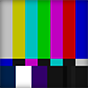
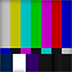
Better loading

diff --git a/iNDS/core/iNDSGame.m b/iNDS/core/iNDSGame.m
@@ -20,6 +20,7 @@ NSString * const iNDSGameSaveStatesChangedNotification = @"iNDSGameSaveStatesCha
     NSString    *title;
     UIImage     *icon;
     NSString    *md5;
+    NSString    *imageURL;
 }
 
 + (NSArray*)gamesAtPath:(NSString*)gamesPath saveStateDirectoryPath:(NSString*)saveStatePath
@@ -160,7 +161,6 @@ NSString * const iNDSGameSaveStatesChangedNotification = @"iNDSGameSaveStatesCha
 {
     if (iconTitleData == nil) return nil;
     if (icon == nil) {
-        NSLog(@"%@", [self imageURL]);
         NSMutableData *bitmapData = [NSMutableData dataWithCapacity:32*32*4];
         
         // Setup the 4-bit CLUT.
@@ -324,35 +324,44 @@ NSString * const iNDSGameSaveStatesChangedNotification = @"iNDSGameSaveStatesCha
 
 - (NSString *) md5 {
     if (md5 == nil) {
-        md5 = [FileHash md5HashOfFileAtPath:self.path];;
+        md5 = [FileHash md5HashOfFileAtPath:self.path];
     }
     return md5;
 }
 
 - (NSString *) imageURL {
-    iNDSDBManager *db = [iNDSDBManager sharedInstance];
-    NSString *boop = [NSString stringWithFormat:@"SELECT romID FROM ROMs WHERE UPPER(romHashMD5) = UPPER(\"%@\");", [self md5]];
-    
-    __block int romID = 0;
-    [db query:boop result:^(int resultCode, sqlite3_stmt *statement) {
-        int uhh = sqlite3_step(statement);
+    if (imageURL == nil) {
+        iNDSDBManager *db = [iNDSDBManager sharedInstance];
+        NSString *boop = [NSString stringWithFormat:@"SELECT romID FROM ROMs WHERE UPPER(romHashMD5) = UPPER(\"%@\");", [self md5]];
         
-        if (resultCode == SQLITE_OK && uhh == SQLITE_ROW) {
-            romID = sqlite3_column_int(statement, 0);
-        }
-    }];
-    
-    __block NSString *imageURL = @"";
-    boop = [NSString stringWithFormat:@"SELECT releaseCoverFront FROM RELEASES WHERE romID = %i;", romID];
-    [db query:boop result:^(int resultCode, sqlite3_stmt *statement) {
-        if (resultCode == SQLITE_OK && sqlite3_step(statement) == SQLITE_ROW) {
-            imageURL = [NSString stringWithUTF8String:(const char *)sqlite3_column_text(statement, 0)];
-        }
-    }];
-    
-    NSLog(@"IMAGEURL: %@", imageURL);
+        __block int romID = 0;
+        [db query:boop result:^(int resultCode, sqlite3_stmt *statement) {
+            int uhh = sqlite3_step(statement);
+            
+            if (resultCode == SQLITE_OK && uhh == SQLITE_ROW) {
+                romID = sqlite3_column_int(statement, 0);
+            }
+        }];
+
+        boop = [NSString stringWithFormat:@"SELECT releaseCoverFront FROM RELEASES WHERE romID = %i;", romID];
+        [db query:boop result:^(int resultCode, sqlite3_stmt *statement) {
+            if (resultCode == SQLITE_OK && sqlite3_step(statement) == SQLITE_ROW) {
+                self->imageURL = [NSString stringWithUTF8String:(const char *)sqlite3_column_text(statement, 0)];
+            }
+        }];
+        
+        NSLog(@"IMAGEURL: %@", imageURL);
+    }
     
     return imageURL;
+}
+
+- (BOOL) isEqual:(id)object {
+    return [self.path isEqualToString:((iNDSGame *)object).path];
+}
+
+- (NSUInteger) hash {
+    return self.path.hash;
 }
 
 @end

diff --git a/iNDS/roms/iNDSROMTableViewController.m b/iNDS/roms/iNDSROMTableViewController.m
@@ -17,6 +17,7 @@
 #import "WCEasySettingsViewController.h"
 #import "WCBuildStoreClient.h"
 #import "SharkfoodMuteSwitchDetector.h"
+#import <SDWebImage/UIView+WebCache.h>
 #import <SDWebImage/UIImageView+WebCache.h>
 #import <SDWebImage/SDWebImagePrefetcher.h>
 
@@ -83,12 +84,14 @@
 
 - (void) prefetchImages {
     // Prefetch images
+    /*
     NSMutableArray *urls = [[NSMutableArray alloc] init];
     for (int i = 0; i < games.count; i++) {
         [urls addObject:[games[i] imageURL]];
     }
     NSLog(@"%@", urls);
     [[SDWebImagePrefetcher sharedImagePrefetcher] prefetchURLs:urls];
+     */
 }
 
 
@@ -117,7 +120,12 @@
         [self performSelector:_cmd withObject:nil afterDelay:1];
     } else  {
         // reload all games
-        games = [iNDSGame gamesAtPath:AppDelegate.sharedInstance.documentsPath saveStateDirectoryPath:AppDelegate.sharedInstance.batteryDir];
+        NSArray *games2 = [iNDSGame gamesAtPath:AppDelegate.sharedInstance.documentsPath saveStateDirectoryPath:AppDelegate.sharedInstance.batteryDir];
+        NSMutableSet *setA = [NSMutableSet setWithArray:games];
+        NSSet *setB = [NSSet setWithArray:games2];
+        [setA intersectSet:setB];
+        [setA unionSet:setB];
+        games = [setA allObjects];
         dispatch_async(dispatch_get_main_queue(), ^{
             [self.tableView reloadData];
         });
@@ -194,6 +202,7 @@
     if (indexPath.section == 0) { // Game
         cell = [[UITableViewCell alloc] initWithStyle:UITableViewCellStyleSubtitle reuseIdentifier:@"iNDSGame"];
         if (indexPath.row >= games.count) return [UITableViewCell new];
+        
         iNDSGame *game = games[indexPath.row];
         if (game.gameTitle) {
             // use title from ROM
@@ -206,7 +215,8 @@
             cell.detailTextLabel.text = nil;
         }
         NSString *gameIcon = [game imageURL];
-        
+        [cell.imageView sd_setShowActivityIndicatorView:true];
+        [cell.imageView sd_setIndicatorStyle:UIActivityIndicatorViewStyleWhite];
         [cell.imageView sd_setImageWithURL:[NSURL URLWithString:gameIcon] placeholderImage:[UIImage imageNamed:@"smpte.png"]];
         cell.accessoryType = UITableViewCellAccessoryDisclosureIndicator;
     } else { //Download
@@ -240,7 +250,7 @@
 #pragma mark - Resize Downloaded Images
 
 - (UIImage *) imageManager:(SDWebImageManager *)imageManager transformDownloadedImage:(UIImage *)image withURL:(NSURL *)imageURL {
-    float newHeight = 88;
+    float newHeight = 72;
     float scaleFactor = newHeight / image.size.height;
     float newWidth = image.size.width * scaleFactor;
     

diff --git a/iNDS/core/iNDSGame.h b/iNDS/core/iNDSGame.h
@@ -38,5 +38,7 @@ FOUNDATION_EXPORT NSString * const iNDSGameSaveStatesChangedNotification;
 - (NSArray*)saveStates;
 - (void) setAltTitle:(NSString *)altTitle;
 - (NSString *) imageURL;
+- (BOOL) isEqual:(id)object;
+- (NSUInteger) hash;
 
 @end
